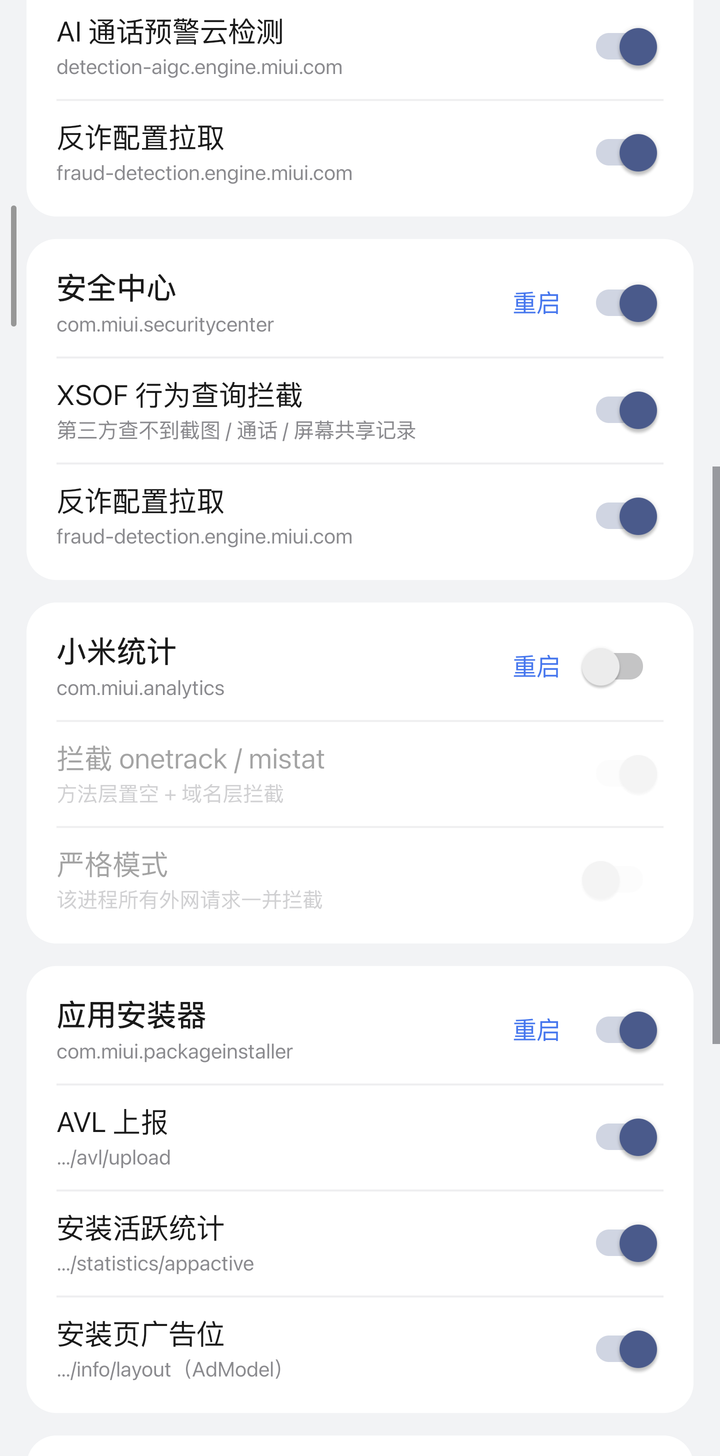
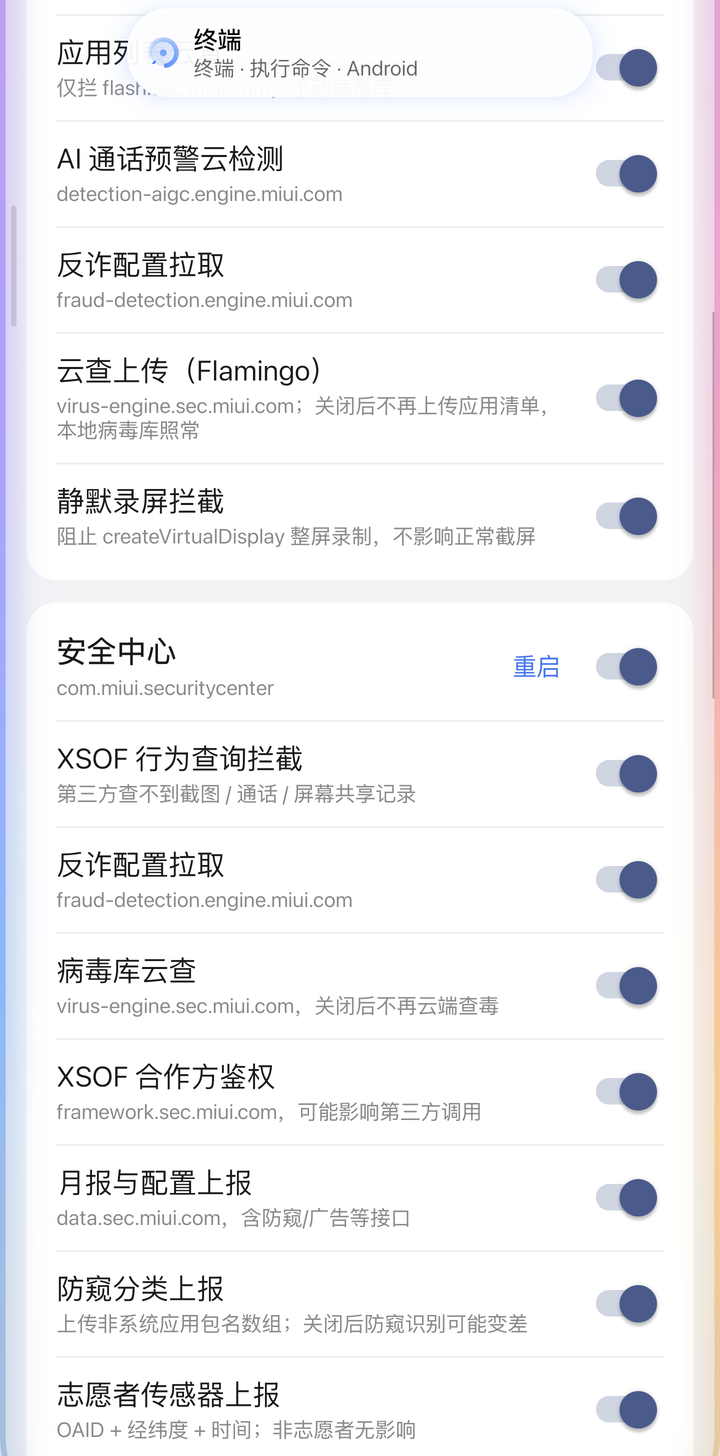
release: 1.2.2 免责声明补充版权与来源

diff --git a/src/io/github/vivibibi30/hyperpguard/Config.java b/src/io/github/vivibibi30/hyperpguard/Config.java
@@ -14,7 +14,7 @@ public final class Config {
 
     public static final String PKG = "io.github.vivibibi30.hyperpguard";
     public static final String PREFS = "pg";
-    public static final String VERSION = "1.2.1";
+    public static final String VERSION = "1.2.2";
 
     /* 全局 */
     public static final String K_MASTER = "master";

diff --git a/README.md b/README.md
@@ -300,11 +300,11 @@ build.sh                           一键构建
 
 以下项目的公开资料提供了识别目标与验证思路。本项目代码独立编写，未复制、未反编译复用其实现。
 
-- **HyperCeiler**（GPL-3.0，Sevtinge）— analytics 目标方法、`flash.sec.miui.com/detect/app`、安装器 `/avl/upload`、MRM 拦截思路
-- **XSOF Privacy**（yunyizea）— 8 类行为记录的拦截范围、`(null, 1017)` 拒绝语义、按组组织 hook
+- **[HyperCeiler](https://github.com/Sevtinge/HyperCeiler)**（GPL-3.0，作者 [Sevtinge](https://github.com/Sevtinge)）— analytics 目标方法、`flash.sec.miui.com/detect/app`、安装器 `/avl/upload`、MRM 拦截思路
+- **[XSOF Privacy](https://modules.lsposed.org/module/io.github.yunyizea.xsofprivacy)**（作者 yunyizea）— 8 类行为记录的拦截范围、`(null, 1017)` 拒绝语义、按组组织 hook
 - **Hyper 隐私卫士**（`io.github.hyperprivacyguard`）— SystemHelper 采集入口特征、guardprovider 应用列表采集
-- **HyperOS4-XSOF-Analysis**（FAQQAQ）— 7 个组件的静态逆向记录：整域范围、`om.tracking.miui.com/track/mt`、区域与备份域、DoH 重试、`framework.sec.miui.com`、`virus-engine.sec.miui.com`、地震/报警/EPS 族、`typdm.tydevice.com` 明文上报、analytics 6.33.0 的 `a.b.a.*` 结构
-- **OSAKOo**（酷安）— [HyperOS 行为数据库与静默录屏的复核](https://www.coolapk.com/feed/74882729?s=MzNlYzk4NWUxNWZhMjRnNmFlZTFjMDJ6a1664)：`fraud_detection_data.db` 八张表与 `screenshort_time` 拼写、`createScreenCaptureIntent` 零调用与 `privateLookupIn` 绕过、`clip.mp4` 上报链路、SystemHelper 采集项与明文上报、六个域名的实际用途
+- **[HyperOS4-XSOF-Analysis](https://github.com/FAQQAQ/HyperOS4-XSOF-Analysis)**（作者 [FAQQAQ](https://github.com/FAQQAQ)）— 7 个组件的静态逆向记录：整域范围、`om.tracking.miui.com/track/mt`、区域与备份域、DoH 重试、`framework.sec.miui.com`、`virus-engine.sec.miui.com`、地震/报警/EPS 族、`typdm.tydevice.com` 明文上报、analytics 6.33.0 的 `a.b.a.*` 结构
+- **[OSAKOo](https://www.coolapk.com/feed/74882729?s=MzNlYzk4NWUxNWZhMjRnNmFlZTFjMDJ6a1664)**（酷安）— [HyperOS 行为数据库与静默录屏的复核](https://www.coolapk.com/feed/74882729?s=MzNlYzk4NWUxNWZhMjRnNmFlZTFjMDJ6a1664)：`fraud_detection_data.db` 八张表与 `screenshort_time` 拼写、`createScreenCaptureIntent` 零调用与 `privateLookupIn` 绕过、`clip.mp4` 上报链路、SystemHelper 采集项与明文上报、六个域名的实际用途
 - **libxposed API**（Apache-2.0）、**LSPosed** — 模块入口与作用域接口
 
 第三方组件：`Xposed API 82`、`libxposed API 102`（均为 Apache-2.0，编译期依赖）。
@@ -312,6 +312,14 @@ build.sh                           一键构建
 感谢以上作者与维护者。
 
 ## 更新日志
+
+### 1.2.2（对比 1.2.1）
+
+| 项 | 1.2.1 | 1.2.2 |
+|---|---|---|
+| 免责声明 | 八条 | 新增「版权与来源」一条（应用内可查看），版本 1.9 |
+| 界面截图 | 1.0.1 时期 | 更新为 1.2.1 界面 |
+| 其余 | — | 不变 |
 
 ### 1.2.1（对比 1.2.0）
 

diff --git a/docs/RELEASE-1.2.2.md b/docs/RELEASE-1.2.2.md
@@ -1,0 +1,38 @@
+# HyperPGuard 1.2.2
+
+## 变更（对比 1.2.1）
+
+| 项 | 1.2.1 | 1.2.2 |
+|---|---|---|
+| 免责声明 | 八条 | 新增「版权与来源」，共九条，应用内「免责声明」可查看 |
+| 界面截图 | 1.0.1 时期 | 更新为 1.2.1 界面（三键批量操作） |
+| 其余 | — | 不变 |
+
+## 免责声明要点
+
+- 仅限本人拥有完全控制权的设备使用，禁止商业分发
+- 模块自身不联网、不收集数据
+- 代码独立编写，参考项目列于 README「参考来源」
+- 模块名与包名归作者所有，不得冒充官方版本
+- 与小米、中国联通等厂商无隶属关系，商标归各自权利人
+
+## 校验
+
+```
+签名证书  SHA-256 cacdf86d34ff7f7de0ed99467364ff5fc9d898f6c61d2202a02a34050d8cdcd3
+```
+
+## 参考与致谢
+
+- **[HyperCeiler](https://github.com/Sevtinge/HyperCeiler)**（GPL-3.0，作者 Sevtinge）
+- **[XSOF Privacy](https://modules.lsposed.org/module/io.github.yunyizea.xsofprivacy)**（作者 yunyizea）
+- **Hyper 隐私卫士**（`io.github.hyperprivacyguard`）
+- **[HyperOS4-XSOF-Analysis](https://github.com/FAQQAQ/HyperOS4-XSOF-Analysis)**（作者 FAQQAQ）
+- **[酷安 @OSAKOo](https://www.coolapk.com/feed/74882729?s=MzNlYzk4NWUxNWZhMjRnNmFlZTFjMDJ6a1664)**
+- **libxposed API**（Apache-2.0）、**LSPosed**
+
+代码独立编写，未复制、未反编译复用上述项目的实现。
+
+## 免责声明
+
+仅供在本人拥有完全控制权的设备上学习研究使用。完整九条条款见 [DISCLAIMER.txt](https://github.com/vivibibi30/hyperpguard/blob/main/DISCLAIMER.txt)。GPL-3.0。

diff --git a/docs/RELEASE-1.2.1.md b/docs/RELEASE-1.2.1.md
@@ -18,11 +18,11 @@
 
 ## 参考与致谢
 
-- **HyperCeiler**（GPL-3.0，Sevtinge）
-- **XSOF Privacy**（yunyizea）
+- **[HyperCeiler](https://github.com/Sevtinge/HyperCeiler)**（GPL-3.0，作者 Sevtinge）
+- **[XSOF Privacy](https://modules.lsposed.org/module/io.github.yunyizea.xsofprivacy)**（作者 yunyizea）
 - **Hyper 隐私卫士**（`io.github.hyperprivacyguard`）
-- **HyperOS4-XSOF-Analysis**（FAQQAQ）
-- **OSAKOo**（酷安）
+- **[HyperOS4-XSOF-Analysis](https://github.com/FAQQAQ/HyperOS4-XSOF-Analysis)**（作者 FAQQAQ）
+- **[酷安 @OSAKOo](https://www.coolapk.com/feed/74882729?s=MzNlYzk4NWUxNWZhMjRnNmFlZTFjMDJ6a1664)**
 - **libxposed API**（Apache-2.0）、**LSPosed**
 
 代码独立编写，未复制、未反编译复用上述项目的实现。
